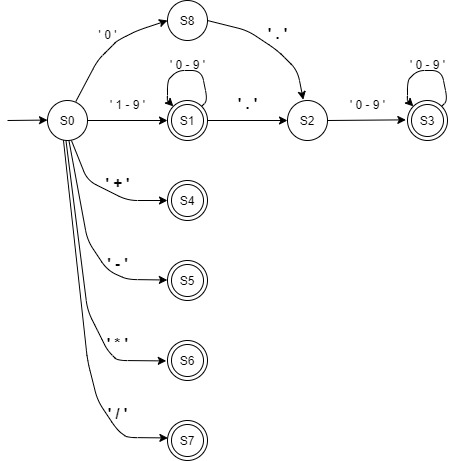
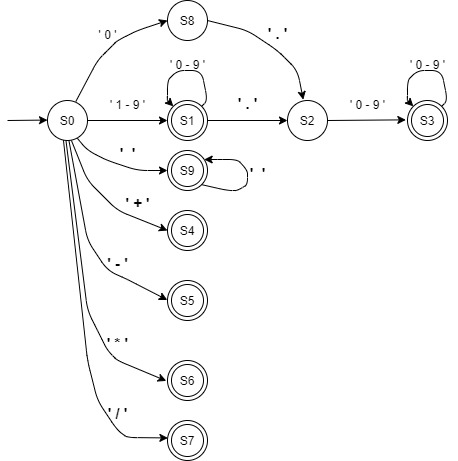
added s9 delimiter in dfa architec

diff --git a/src/main/java/ReversePolishNotation.java b/src/main/java/ReversePolishNotation.java
@@ -24,7 +24,8 @@ public class ReversePolishNotation {
         Lexer lexer = new Lexer(input, dfa);
         Convector convector = new Convector(lexer);
 
-        System.out.println(convector.convertExpression(input));
+        Calculator calculator = new Calculator(convector,input);
+        System.out.println(calculator.calculate());
 
     }
 }
